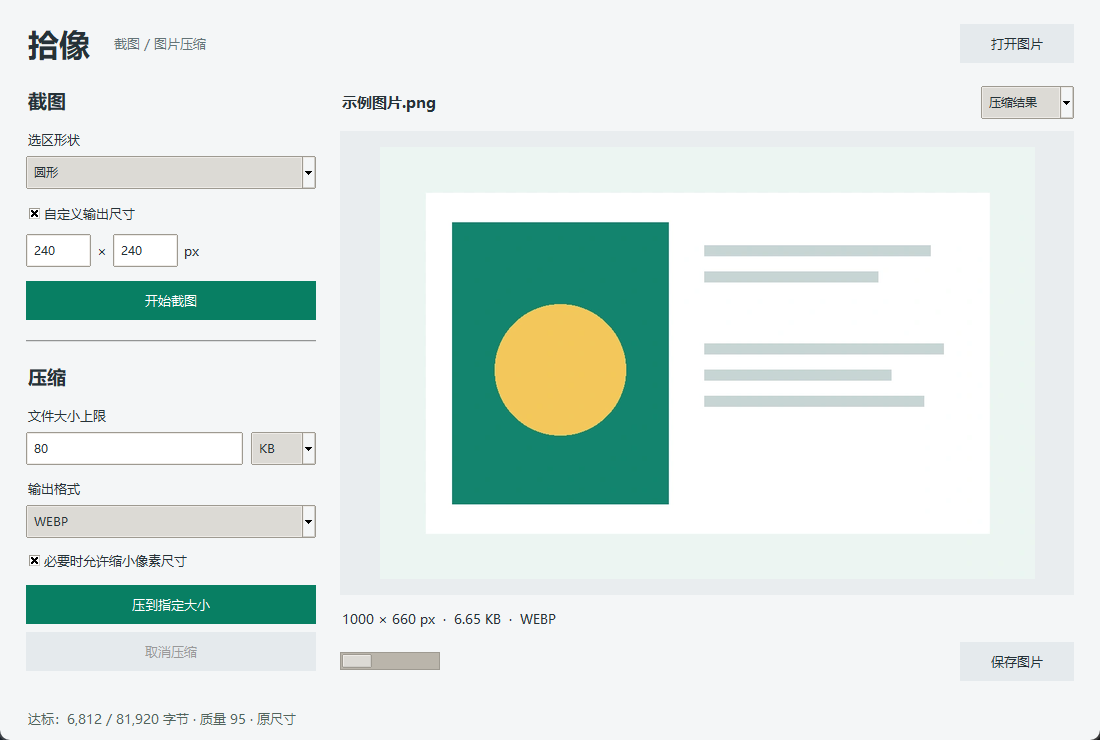
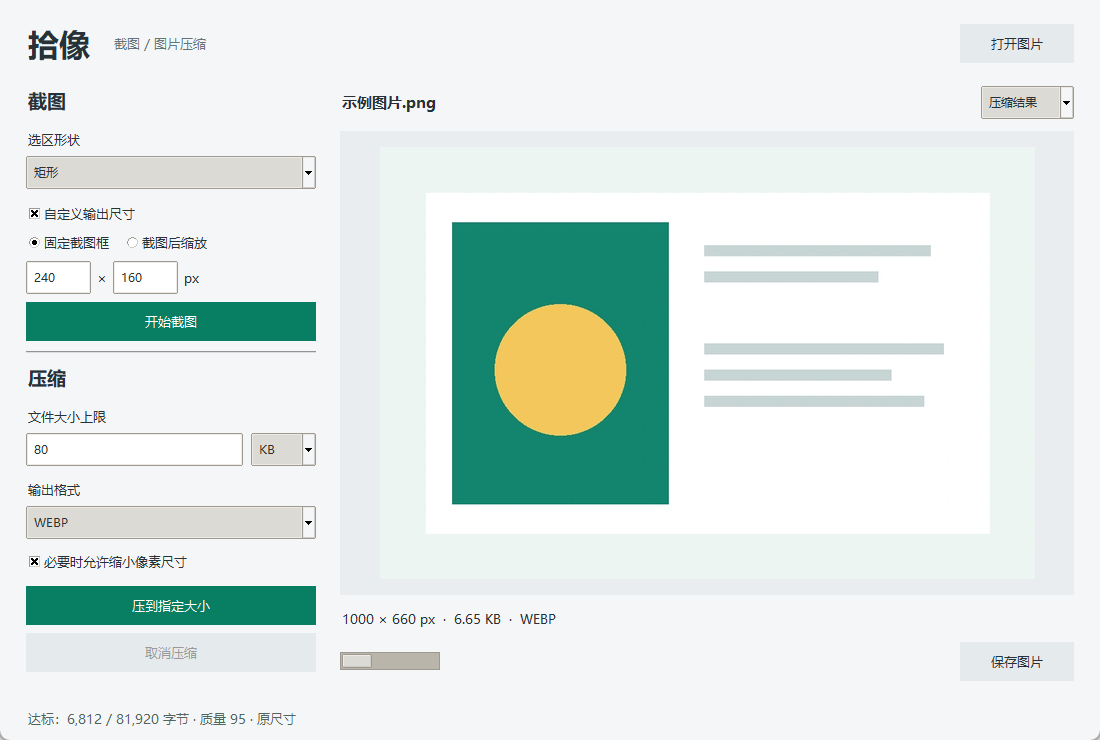
Add movable fixed-size screenshot frame

diff --git a/app.py b/app.py
@@ -12,7 +12,7 @@ from pathlib import Path
 from tkinter import filedialog, messagebox, ttk
 
 from PIL import Image, ImageGrab, ImageOps, ImageTk
-from image_ops import compress, encode, make_capture, selection_box
+from image_ops import compress, encode, fixed_box, make_capture, selection_box
 
 SHAPES = {"矩形": "rectangle", "正方形": "square", "圆形": "circle", "椭圆": "ellipse"}
 warnings.simplefilter("error", Image.DecompressionBombWarning)
@@ -30,6 +30,14 @@ def dpi_aware():
 class CaptureOverlay:
     def __init__(self, app, screen, origin):
         self.app, self.screen, self.start = app, screen, None
+        self.fixed = None
+        self.drag_origin = None
+        if app.fixed_capture_size:
+            fw, fh = app.fixed_capture_size
+            pointer = app.root.winfo_pointerxy()
+            self.fixed = fixed_box((pointer[0] - origin[0] - fw // 2,
+                                    pointer[1] - origin[1] - fh // 2),
+                                   (fw, fh), screen.size)
         self.window = tk.Toplevel(app.root)
         self.window.withdraw()
         self.window.overrideredirect(True)
@@ -45,6 +53,19 @@ class CaptureOverlay:
         self.canvas.bind("<ButtonRelease-1>", self.release)
         self.window.bind("<Button-3>", lambda e: self.close())
         self.window.bind("<Escape>", lambda e: self.close())
+        if self.fixed:
+            self.canvas.config(cursor="fleur")
+            self.toolbar = ttk.Frame(self.canvas, padding=4)
+            ttk.Label(self.toolbar, text=f"{fw} × {fh} px").pack(side="left", padx=8)
+            ttk.Button(self.toolbar, text="确认截图", command=self.confirm, style="Accent.TButton").pack(side="left", padx=4)
+            ttk.Button(self.toolbar, text="取消", command=self.close).pack(side="left")
+            self.toolbar_id = self.canvas.create_window(0, 0, window=self.toolbar, anchor="nw")
+            self.window.bind("<Return>", lambda e: self.confirm())
+            for key, delta in (("Left", (-1, 0)), ("Right", (1, 0)),
+                               ("Up", (0, -1)), ("Down", (0, 1))):
+                self.window.bind(f"<{key}>", lambda e, d=delta: self.nudge(d, 1))
+                self.window.bind(f"<Shift-{key}>", lambda e, d=delta: self.nudge(d, 10))
+            self.draw_selection(self.fixed)
         self.window.deiconify()
         self.window.update_idletasks()
         # Win32 placement handles negative virtual-desktop coordinates directly.
@@ -54,6 +75,11 @@ class CaptureOverlay:
         self.window.grab_set()
 
     def press(self, event):
+        if self.fixed:
+            x0, y0, x1, y1 = self.fixed
+            if not (x0 <= event.x <= x1 and y0 <= event.y <= y1):
+                return
+            self.drag_origin = self.fixed[:2]
         self.start = (event.x, event.y)
 
     def box(self, event):
@@ -63,21 +89,57 @@ class CaptureOverlay:
     def drag(self, event):
         if self.start is None:
             return
-        box = self.box(event)
+        if self.fixed:
+            self.fixed = fixed_box((self.drag_origin[0] + event.x - self.start[0],
+                                    self.drag_origin[1] + event.y - self.start[1]),
+                                   self.app.fixed_capture_size, self.screen.size)
+            self.draw_selection(self.fixed)
+        else:
+            self.draw_selection(self.box(event))
+
+    def draw_selection(self, box):
         self.canvas.delete("selection")
         draw = self.canvas.create_oval if self.app.capture_shape in ("circle", "ellipse") else self.canvas.create_rectangle
         draw(*box, outline="#07966b", width=3, tags="selection")
-        self.canvas.create_text(box[0] + 8, max(16, box[1] - 14), anchor="w",
-                                text=f"{box[2]-box[0]} × {box[3]-box[1]} px",
-                                fill="#078251", font=("Segoe UI", 12, "bold"), tags="selection")
+        if self.fixed:
+            self.toolbar.update_idletasks()
+            tw, th = self.toolbar.winfo_reqwidth(), self.toolbar.winfo_reqheight()
+            x = max(0, min(box[0], self.screen.width - tw))
+            y = box[3] + 8
+            if y + th > self.screen.height:
+                y = max(0, box[1] - th - 8)
+            self.canvas.coords(self.toolbar_id, x, y)
+            self.canvas.tag_raise(self.toolbar_id)
+        else:
+            self.canvas.create_text(box[0] + 8, max(16, box[1] - 14), anchor="w",
+                                    text=f"{box[2]-box[0]} × {box[3]-box[1]} px",
+                                    fill="#078251", font=("Segoe UI", 12, "bold"), tags="selection")
+
+    def nudge(self, delta, step):
+        self.fixed = fixed_box((self.fixed[0] + delta[0] * step,
+                                self.fixed[1] + delta[1] * step),
+                               self.app.fixed_capture_size, self.screen.size)
+        self.draw_selection(self.fixed)
+        return "break"
+
+    def confirm(self):
+        self.finish(self.fixed)
 
     def release(self, event):
+        if self.fixed:
+            if self.start is not None:
+                self.drag(event)
+            self.start = None
+            return
         if self.start is None:
             return
         box = self.box(event)
         if box[2] - box[0] < 2 or box[3] - box[1] < 2:
             self.start = None
             return
+        self.finish(box)
+
+    def finish(self, box):
         try:
             image = make_capture(self.screen, box, self.app.capture_shape, self.app.capture_size)
             self.app.set_image(image, "新截图")
@@ -132,16 +194,29 @@ class App:
         ttk.Combobox(controls, textvariable=self.shape, values=list(SHAPES), state="readonly").pack(fill="x", pady=(5, 12))
         self.custom = tk.BooleanVar(value=False)
         ttk.Checkbutton(controls, text="自定义输出尺寸", variable=self.custom).pack(anchor="w")
+        modes = ttk.Frame(controls)
+        modes.pack(fill="x", pady=(4, 0))
+        self.size_mode = tk.StringVar(value="fixed")
+        self.mode_buttons = [
+            ttk.Radiobutton(modes, text="固定截图框", variable=self.size_mode, value="fixed"),
+            ttk.Radiobutton(modes, text="截图后缩放", variable=self.size_mode, value="resize"),
+        ]
+        for button in self.mode_buttons:
+            button.pack(side="left", padx=(0, 12))
         dims = ttk.Frame(controls)
-        dims.pack(fill="x", pady=(8, 14))
+        dims.pack(fill="x", pady=(6, 8))
         self.width, self.height = tk.StringVar(value="800"), tk.StringVar(value="800")
-        ttk.Entry(dims, textvariable=self.width, width=7).pack(side="left")
+        self.width_entry = ttk.Entry(dims, textvariable=self.width, width=7)
+        self.width_entry.pack(side="left")
         ttk.Label(dims, text=" × ").pack(side="left")
-        ttk.Entry(dims, textvariable=self.height, width=7).pack(side="left")
+        self.height_entry = ttk.Entry(dims, textvariable=self.height, width=7)
+        self.height_entry.pack(side="left")
         ttk.Label(dims, text=" px").pack(side="left")
+        self.custom.trace_add("write", lambda *_: self.update_size_controls())
+        self.update_size_controls()
         self.capture_button = ttk.Button(controls, text="开始截图", style="Accent.TButton", command=self.capture)
         self.capture_button.pack(fill="x")
-        ttk.Separator(controls).pack(fill="x", pady=20)
+        ttk.Separator(controls).pack(fill="x", pady=10)
         ttk.Label(controls, text="压缩", font=("Microsoft YaHei UI", 14, "bold")).pack(anchor="w", pady=(0, 12))
         ttk.Label(controls, text="文件大小上限").pack(anchor="w")
         target_row = ttk.Frame(controls)
@@ -184,6 +259,11 @@ class App:
         root.protocol("WM_DELETE_WINDOW", self.close)
         root.after(100, self.poll)
 
+    def update_size_controls(self):
+        state = "normal" if self.custom.get() else "disabled"
+        for control in (*self.mode_buttons, self.width_entry, self.height_entry):
+            control.config(state=state)
+
     def restore(self):
         self.root.deiconify()
         self.root.lift()
@@ -198,13 +278,17 @@ class App:
         try:
             self.capture_shape = SHAPES[self.shape.get()]
             self.capture_size = None
+            self.fixed_capture_size = None
             if self.custom.get():
                 w, h = int(self.width.get()), int(self.height.get())
                 if min(w, h) < 1 or max(w, h) > 8192 or w * h > 20_000_000:
                     raise ValueError("宽高须为 1–8192 px，且总像素不超过 2000 万")
                 if self.capture_shape in ("circle", "square") and w != h:
                     raise ValueError("圆形和正方形的输出宽高必须相同")
-                self.capture_size = (w, h)
+                if self.size_mode.get() == "fixed":
+                    self.fixed_capture_size = (w, h)
+                else:
+                    self.capture_size = (w, h)
             self.capture_button.config(state="disabled")
             self.root.withdraw()
             self.root.after(350, self.grab)

diff --git a/tests/smoke_ui.py b/tests/smoke_ui.py
@@ -28,6 +28,7 @@ try:
     pump(root)
     app.shape.set("圆形")
     app.custom.set(True)
+    app.size_mode.set("resize")
     app.width.set("240")
     app.height.set("240")
     app.capture()
@@ -55,6 +56,33 @@ try:
     pump(root)
     assert app.overlay is None and root.state() == "normal"
     assert app.image is previous
+    app.size_mode.set("fixed")
+    app.shape.set("矩形")
+    app.width.set("240")
+    app.height.set("160")
+    app.capture()
+    pump(root, .7)
+    overlay = app.overlay
+    assert overlay is not None and app.capture_size is None
+    x0, y0, x1, y1 = overlay.fixed
+    assert (x1 - x0, y1 - y0) == (240, 160)
+    overlay.canvas.event_generate("<ButtonPress-1>", x=x0 + 30, y=y0 + 30)
+    overlay.canvas.event_generate("<B1-Motion>", x=x0 - 30, y=y0 - 10)
+    overlay.canvas.event_generate("<ButtonRelease-1>", x=x0 - 30, y=y0 - 10)
+    pump(root)
+    assert app.overlay is overlay, "Releasing a fixed frame must not capture"
+    assert overlay.fixed[:2] == (max(0, x0 - 60), max(0, y0 - 40))
+    overlay.nudge((1, 0), 1)
+    expected = overlay.screen.crop(overlay.fixed).convert("RGBA")
+    overlay.window.event_generate("<Return>")
+    pump(root)
+    assert app.overlay is None and app.image.size == (240, 160)
+    assert app.image.tobytes() == expected.tobytes(), "Fixed capture resampled pixels"
+    app.capture()
+    pump(root, .7)
+    app.overlay.window.event_generate("<Button-3>", x=20, y=20)
+    pump(root)
+    assert app.overlay is None and root.state() == "normal"
     # Use a generated image in the saved preview, never desktop contents.
     from PIL import Image, ImageDraw
     sample = Image.new("RGBA", (1000, 660), "#ecf6f2")
@@ -78,6 +106,6 @@ try:
     pump(root, .5)
     x, y = root.winfo_rootx(), root.winfo_rooty()
     ImageGrab.grab((x, y, x + root.winfo_width(), y + root.winfo_height())).save(folder / "ui-preview.png")
-    print("PASS: hide, circular capture, custom pixels, compression, right-click cancel, restore, preview")
+    print("PASS: hide, resize capture, movable fixed frame, exact pixels, Enter, compression, right-click cancel, restore, preview")
 finally:
     root.destroy()

diff --git a/tests/test_image_ops.py b/tests/test_image_ops.py
@@ -1,7 +1,7 @@
 import unittest
 from io import BytesIO
 from PIL import Image
-from image_ops import compress, make_capture, selection_box
+from image_ops import compress, fixed_box, make_capture, selection_box
 
 
 class ImageTests(unittest.TestCase):
@@ -45,6 +45,25 @@ class ImageTests(unittest.TestCase):
     def test_invalid_target(self):
         with self.assertRaises(ValueError):
             compress(self.image, 0)
+
+    def test_fixed_frame_keeps_size_at_edges(self):
+        self.assertEqual(fixed_box((-30, 999), (80, 60), (420, 300)),
+                         (0, 240, 80, 300))
+        self.assertEqual(fixed_box((999, -30), (80, 60), (420, 300)),
+                         (340, 0, 420, 60))
+        self.assertEqual(fixed_box((20, 20), (420, 300), (420, 300)),
+                         (0, 0, 420, 300))
+
+    def test_fixed_frame_rejects_oversize(self):
+        for size in ((421, 10), (10, 301), (0, 10)):
+            with self.assertRaises(ValueError):
+                fixed_box((0, 0), size, (420, 300))
+
+    def test_fixed_capture_preserves_pixels(self):
+        box = fixed_box((23, 17), (80, 60), self.image.size)
+        result = make_capture(self.image, box, "rectangle")
+        self.assertEqual(result.size, (80, 60))
+        self.assertEqual(result.tobytes(), self.image.crop(box).tobytes())
 
 
 if __name__ == "__main__":

diff --git a/image_ops.py b/image_ops.py
@@ -3,6 +3,15 @@ from io import BytesIO
 from PIL import Image, ImageDraw, ImageOps
 
 
+def fixed_box(position, size, bounds):
+    w, h = size
+    if min(w, h) < 1 or w > bounds[0] or h > bounds[1]:
+        raise ValueError("固定截图框的尺寸不能超过屏幕范围")
+    x = max(0, min(bounds[0] - w, int(position[0])))
+    y = max(0, min(bounds[1] - h, int(position[1])))
+    return x, y, x + w, y + h
+
+
 def selection_box(start, end, bounds, square=False):
     x0, y0 = start
     x1 = max(0, min(bounds[0], end[0]))

diff --git a/README.md b/README.md
@@ -26,10 +26,14 @@ python app.py
 ## 截图
 
 - 选择矩形、正方形、圆形或椭圆。
-- 点击开始截图后，主窗口隐藏；按住鼠标左键拖动，松开完成。
+- 点击开始截图后，主窗口隐藏；自由选区模式按住鼠标左键拖动，松开完成。
 - 右键或 Esc 取消并返回主窗口。
-- 可设置输出宽高（px）。圆形和正方形要求宽高相同。
-- 自定义尺寸是截图后的重采样，不是屏幕选区尺寸；非等比例设置会拉伸图像。
+- 勾选自定义输出尺寸后，可选择两种模式，圆形和正方形都要求宽高相同：
+  - **固定截图框**：先生成指定宽高（屏幕物理像素）的选区，按住框内拖动定位。
+    松开鼠标不会截图；点击“确认截图”或按 Enter 完成。方向键微调 1 px，Shift + 方向键移动 10 px。
+    不缩放、不挤压；边缘移动保持尺寸，超出虚拟桌面宽高的尺寸会报错。
+  - **截图后缩放**：自由拖选，松开后重采样为指定输出宽高；非等比例设置可能拉伸图像。
+- 两种模式都在开始截图时冻结桌面画面，固定框移动期间不会更新视频等动态内容。
 - 圆形、椭圆以透明背景 PNG 保存，也可以接着压缩为 WebP。
 - 多屏按 Windows 虚拟桌面坐标处理；混合 DPI 显示器仍需真实硬件验证。
 
@@ -71,5 +75,5 @@ python -m PyInstaller --noconfirm --onefile --windowed --name Shixiang app.py
 
 ## 验证范围
 
-已通过 7 项核心测试及 Windows 桌面流程测试，覆盖隐藏窗口、选区裁切、
-自定义输出像素、右键取消和压缩。混合 DPI 多屏场景尚未实机验证。
+核心测试及 Windows 桌面流程测试覆盖隐藏窗口、选区裁切、自定义输出像素、
+固定框移动及逐像素保真、右键取消和压缩。混合 DPI 多屏场景尚未实机验证。
